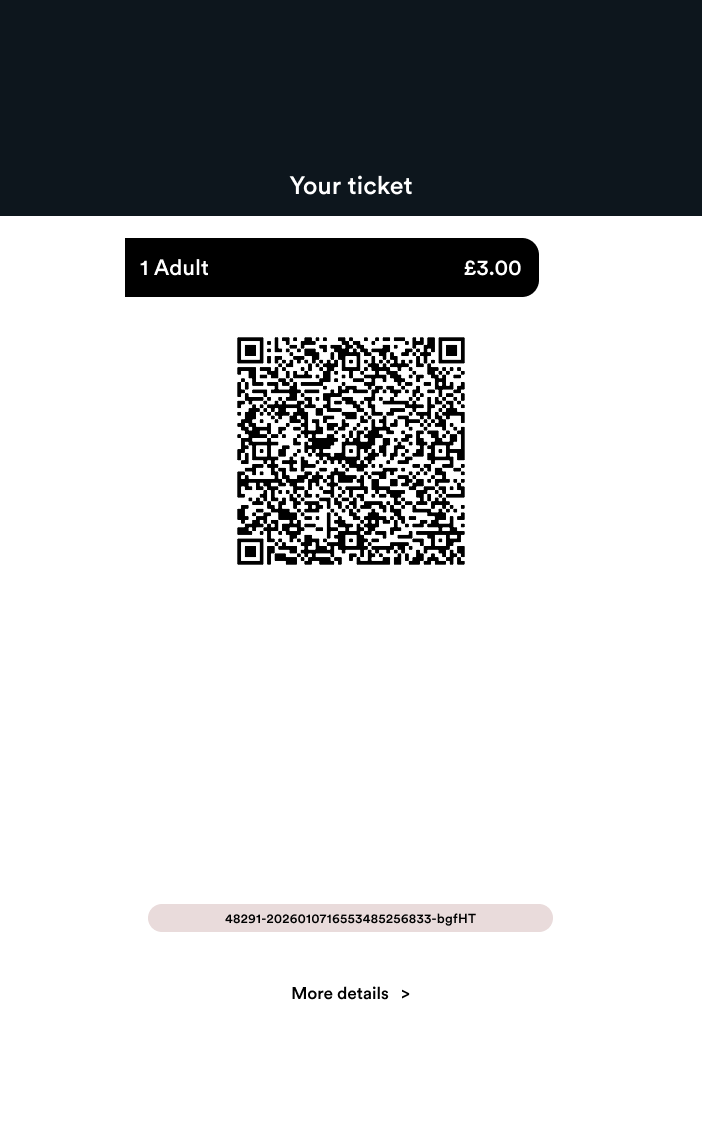
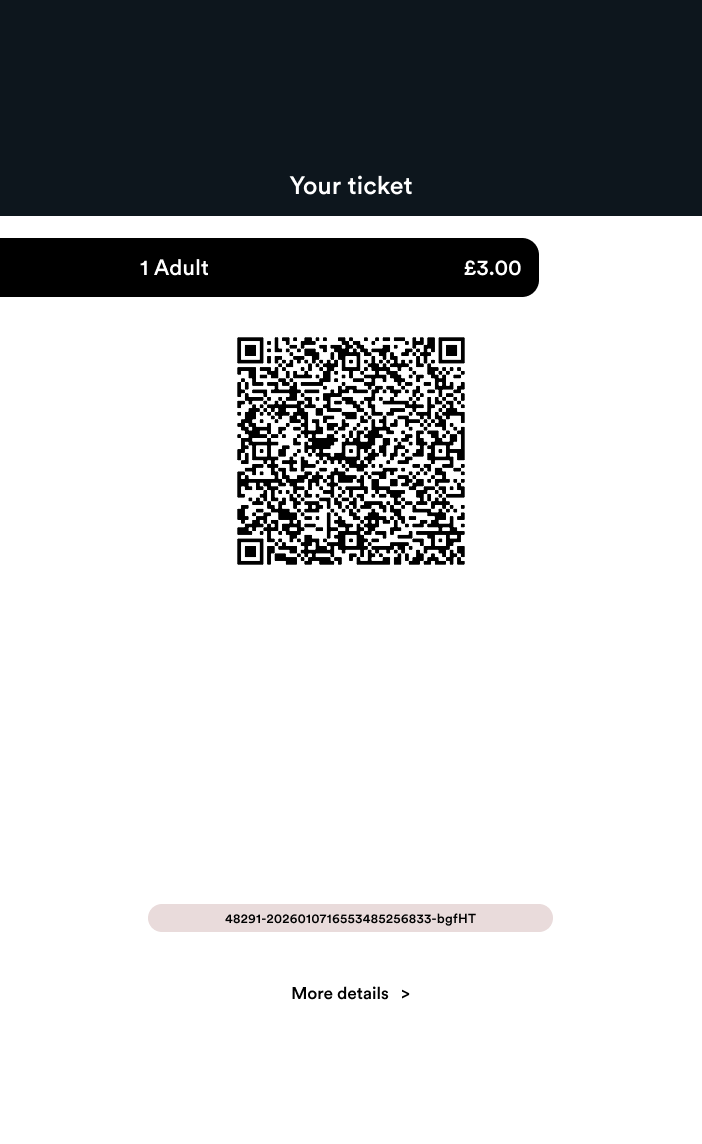
Updated template, added expected time, and significantly reduced generation time

Changed region(s): [[0.0, 0.1836, 0.1795, 0.2753]]

diff --git a/index.js b/index.js
@@ -28,11 +28,13 @@ if (fs.existsSync(fontPath)) {
 }
 
 // ---------------------------
-// VIDEO GENERATION FUNCTION
+// VIDEO GENERATION FUNCTION (OPTIMIZED)
 // ---------------------------
-function generateVideo(routeText, videoId, callback) {
-  const workingWidth = 452;
+function generateVideo(routeText, videoId, expectedTime, callback) {
+  const originalWidth = 452;
+  const workingWidth = 702;
   const workingHeight = 836;
+  const boxExtension = 125;
   
   const workingCanvas = createCanvas(workingWidth, workingHeight);
   const workingCtx = workingCanvas.getContext('2d');
@@ -60,13 +62,15 @@ function generateVideo(routeText, videoId, callback) {
   const generationStartTime = new Date();
 
   const circles = [];
-  const numCircles = 15;
+  const numCircles = 10; // Reduced from 15 for better performance
   const baseBoxY = 496;
   const boxHeight = 83;
+  const circleAreaWidth = 452;
+  const circleAreaStart = (workingWidth - circleAreaWidth) / 2;
 
   for (let i = 0; i < numCircles; i++) {
     circles.push({
-      x: Math.random() * workingWidth,
+      x: circleAreaStart + Math.random() * circleAreaWidth,
       y: baseBoxY + Math.random() * boxHeight,
       radius: 10 + Math.random() * 30,
       vx: (Math.random() - 0.5) * 3,
@@ -100,11 +104,6 @@ function generateVideo(routeText, videoId, callback) {
     });
   }
 
-  const framesDir = path.join(__dirname, 'frames', videoId);
-  if (!fs.existsSync(framesDir)) {
-    fs.mkdirSync(framesDir, { recursive: true });
-  }
-
   loadImage(path.join(__dirname, 'template.png')).then(templateImage => {
     const templateWidth = templateImage.width;
     const templateHeight = templateImage.height;
@@ -112,6 +111,7 @@ function generateVideo(routeText, videoId, callback) {
     const outputCanvas = createCanvas(templateWidth, templateHeight);
     const outputCtx = outputCanvas.getContext('2d');
     
+    // Pre-render static elements to cache canvas
     const cachedWorkingCanvas = createCanvas(workingWidth, workingHeight);
     const cachedWorkingCtx = cachedWorkingCanvas.getContext('2d');
     
@@ -119,16 +119,48 @@ function generateVideo(routeText, videoId, callback) {
     cachedWorkingCtx.textAlign = 'center';
     cachedWorkingCtx.textBaseline = 'middle';
     cachedWorkingCtx.fillStyle = '#000';
-    const titleCenterX = workingWidth / 2;
+    const titleCenterX = boxExtension + originalWidth / 2;
     const titleCenterY = 376 + 66 / 2;
-    const titleMaxWidth = workingWidth - 122;
+    const titleMaxWidth = originalWidth - 122;
     wrapText(cachedWorkingCtx, routeText, titleCenterX, titleCenterY, titleMaxWidth, 36);
     
     cachedWorkingCtx.font = '18px "Circular"';
     const now = new Date();
     const months = ['Jan','Feb','Mar','Apr','May','Jun','Jul','Aug','Sept','Oct','Nov','Dec'];
     const validText = `Valid from: ${String(now.getHours()).padStart(2,'0')}:${String(now.getMinutes()).padStart(2,'0')}, ${String(now.getDate()).padStart(2,'0')} ${months[now.getMonth()]} ${now.getFullYear()}`;
-    cachedWorkingCtx.fillText(validText, workingWidth / 2, 448 + 33 / 2);
+    cachedWorkingCtx.fillText(validText, boxExtension + originalWidth / 2, 448 + 33 / 2);
+
+    // Setup FFmpeg to receive raw video frames via stdin
+    const videosDir = path.join(__dirname, 'videos');
+    if (!fs.existsSync(videosDir)) {
+      fs.mkdirSync(videosDir);
+    }
+    const outputPath = path.join(videosDir, `${videoId}.mp4`);
+
+    const args = [
+      '-y',
+      '-f', 'rawvideo',
+      '-vcodec', 'rawvideo',
+      '-pix_fmt', 'rgba',
+      '-s', `${templateWidth}x${templateHeight}`,
+      '-framerate', String(fps),
+      '-i', '-', // Read from stdin
+      '-c:v', 'libx264',
+      '-pix_fmt', 'yuv420p',
+      '-preset', 'ultrafast',
+      outputPath
+    ];
+
+    const ffmpegProcess = spawn(ffmpegPath, args);
+    
+    let errorOutput = '';
+    ffmpegProcess.stderr.on('data', (data) => {
+      errorOutput += data.toString();
+    });
+
+    // Generate and stream frames directly to FFmpeg
+    let frameCount = 0;
+    const startTime = Date.now();
 
     for (let i = 0; i < totalFrames; i++) {
       workingCtx.clearRect(0, 0, workingWidth, workingHeight);
@@ -142,7 +174,7 @@ function generateVideo(routeText, videoId, callback) {
       const estimatedTime = new Date(generationStartTime.getTime() + (currentSecond * 1000));
       const estimatedHours = String(estimatedTime.getHours()).padStart(2, '0');
       const estimatedMinutes = String(estimatedTime.getMinutes()).padStart(2, '0');
-      const estimatedTimeString = `${estimatedHours}:${estimatedMinutes}`;
+      const estimatedTimeString = expectedTime || `${estimatedHours}:${estimatedMinutes}`;
 
       const t = currentSecond;
       const cycleDuration = 1 / animationSpeed;
@@ -161,6 +193,12 @@ function generateVideo(routeText, videoId, callback) {
 
       const avgTopY = baseBoxY + (tlPull + trPull) / 2;
 
+      // Draw grey box with shadow
+      workingCtx.shadowColor = 'rgba(0, 0, 0, 0.15)';
+      workingCtx.shadowBlur = 10;
+      workingCtx.shadowOffsetX = 0;
+      workingCtx.shadowOffsetY = 4;
+
       workingCtx.fillStyle = '#D9D9D9';
       workingCtx.beginPath();
       workingCtx.moveTo(0, baseBoxY + tlPull);
@@ -170,13 +208,19 @@ function generateVideo(routeText, videoId, callback) {
       workingCtx.closePath();
       workingCtx.fill();
 
+      workingCtx.shadowColor = 'transparent';
+      workingCtx.shadowBlur = 0;
+      workingCtx.shadowOffsetX = 0;
+      workingCtx.shadowOffsetY = 0;
+
+      // Clip and draw circles
       workingCtx.save();
       
       workingCtx.beginPath();
-      workingCtx.moveTo(0, baseBoxY + tlPull);
-      workingCtx.lineTo(workingWidth, baseBoxY + trPull);
-      workingCtx.lineTo(workingWidth, baseBoxY + boxHeight + trPull);
-      workingCtx.lineTo(0, baseBoxY + boxHeight + tlPull);
+      workingCtx.moveTo(circleAreaStart, baseBoxY + tlPull);
+      workingCtx.lineTo(circleAreaStart + circleAreaWidth, baseBoxY + trPull);
+      workingCtx.lineTo(circleAreaStart + circleAreaWidth, baseBoxY + boxHeight + trPull);
+      workingCtx.lineTo(circleAreaStart, baseBoxY + boxHeight + tlPull);
       workingCtx.closePath();
       workingCtx.clip();
 
@@ -184,8 +228,8 @@ function generateVideo(routeText, videoId, callback) {
         circle.x += circle.vx;
         circle.y += circle.vy;
 
-        if (circle.x < -circle.radius) circle.x = workingWidth + circle.radius;
-        if (circle.x > workingWidth + circle.radius) circle.x = -circle.radius;
+        if (circle.x < circleAreaStart - circle.radius) circle.x = circleAreaStart + circleAreaWidth + circle.radius;
+        if (circle.x > circleAreaStart + circleAreaWidth + circle.radius) circle.x = circleAreaStart - circle.radius;
 
         if (circle.y < baseBoxY - circle.radius) circle.y = baseBoxY + boxHeight + circle.radius;
         if (circle.y > baseBoxY + boxHeight + circle.radius) circle.y = baseBoxY - circle.radius;
@@ -200,6 +244,7 @@ function generateVideo(routeText, videoId, callback) {
 
       workingCtx.restore();
 
+      // Text switching logic
       const switchCycle = 2;
       const cycleTime = currentSecond % (switchCycle * 2);
       const fadeDuration = 0.3;
@@ -207,18 +252,27 @@ function generateVideo(routeText, videoId, callback) {
       let textToShow;
       let textOpacity = 1;
       
-      if (cycleTime < switchCycle) {
-        textToShow = selectedWord;
-        if (cycleTime > switchCycle - fadeDuration) {
-          textOpacity = (switchCycle - cycleTime) / fadeDuration;
+      if (expectedTime) {
+        textToShow = estimatedTimeString;
+        if (cycleTime < fadeDuration) {
+          textOpacity = cycleTime / fadeDuration;
+        } else if (cycleTime > (switchCycle * 2) - fadeDuration) {
+          textOpacity = ((switchCycle * 2) - cycleTime) / fadeDuration;
         }
       } else {
-        textToShow = estimatedTimeString;
-        if (cycleTime < switchCycle + fadeDuration) {
-          textOpacity = (cycleTime - switchCycle) / fadeDuration;
-        }
-        if (cycleTime > (switchCycle * 2) - fadeDuration) {
-          textOpacity = ((switchCycle * 2) - cycleTime) / fadeDuration;
+        if (cycleTime < switchCycle) {
+          textToShow = selectedWord;
+          if (cycleTime > switchCycle - fadeDuration) {
+            textOpacity = (switchCycle - cycleTime) / fadeDuration;
+          }
+        } else {
+          textToShow = estimatedTimeString;
+          if (cycleTime < switchCycle + fadeDuration) {
+            textOpacity = (cycleTime - switchCycle) / fadeDuration;
+          }
+          if (cycleTime > (switchCycle * 2) - fadeDuration) {
+            textOpacity = ((switchCycle * 2) - cycleTime) / fadeDuration;
+          }
         }
       }
 
@@ -227,55 +281,54 @@ function generateVideo(routeText, videoId, callback) {
       workingCtx.textBaseline = 'middle';
       workingCtx.fillStyle = `rgba(0, 0, 0, ${textOpacity})`;
       
-      const wordCenterX = workingWidth / 2;
+      const wordCenterX = boxExtension + originalWidth / 2;
       const textRelativeY = 63 / 2;
       const wordCenterY = avgTopY + 10 + textRelativeY;
       
-      const wordMaxWidth = workingWidth - 122;
+      const wordMaxWidth = originalWidth - 122;
       wrapText(workingCtx, textToShow, wordCenterX, wordCenterY, wordMaxWidth, 48);
 
       workingCtx.font = '18px "Circular"';
       workingCtx.fillStyle = '#000';
       const countdownText = `Ticket expires in: 0h: ${minutes}m: ${seconds}s`;
-      workingCtx.fillText(countdownText, 83 + 285 / 2, 608 + 33 / 2);
+      workingCtx.fillText(countdownText, boxExtension + 83 + 285 / 2, 608 + 33 / 2);
 
+      // Composite final frame
       outputCtx.clearRect(0, 0, templateWidth, templateHeight);
       outputCtx.drawImage(templateImage, 0, 0);
-      outputCtx.drawImage(workingCanvas, 125, 224);
+      outputCtx.drawImage(workingCanvas, 0, 224);
 
-      const frameNumber = String(i).padStart(6, '0');
-      fs.writeFileSync(path.join(framesDir, `frame_${frameNumber}.png`), outputCanvas.toBuffer('image/png'));
+      // Stream raw buffer directly to FFmpeg (no PNG encoding!)
+      const buffer = outputCanvas.toBuffer('raw');
+      ffmpegProcess.stdin.write(buffer);
+
+      frameCount++;
+      if (frameCount % 150 === 0) {
+        const elapsed = ((Date.now() - startTime) / 1000).toFixed(1);
+        const fps_actual = (frameCount / elapsed).toFixed(1);
+        console.log(`  Progress: ${frameCount}/${totalFrames} frames (${fps_actual} fps)`);
+      }
     }
 
-    const inputPattern = path.join(framesDir, 'frame_%06d.png');
-    const videosDir = path.join(__dirname, 'videos');
-    if (!fs.existsSync(videosDir)) {
-      fs.mkdirSync(videosDir);
-    }
-    const outputPath = path.join(videosDir, `${videoId}.mp4`);
-
-    const args = [
-      '-y',
-      '-framerate', String(fps),
-      '-start_number', '0',
-      '-i', inputPattern,
-      '-c:v', 'libx264',
-      '-pix_fmt', 'yuv420p',
-      '-preset', 'ultrafast',
-      outputPath
-    ];
-
-    const ffmpegProcess = spawn(ffmpegPath, args);
+    // Close stdin to signal completion
+    ffmpegProcess.stdin.end();
 
     ffmpegProcess.on('close', code => {
-      fs.rmSync(framesDir, { recursive: true });
+      const totalTime = ((Date.now() - startTime) / 1000).toFixed(2);
       
       if (code === 0) {
+        console.log(`  ✓ Completed in ${totalTime}s`);
         callback(null, videoId);
       } else {
-        callback(new Error('FFmpeg failed'));
+        console.error('FFmpeg error:', errorOutput);
+        callback(new Error('FFmpeg failed with code ' + code));
       }
     });
+
+    ffmpegProcess.on('error', (err) => {
+      callback(err);
+    });
+
   }).catch(err => {
     callback(err);
   });
@@ -340,6 +393,7 @@ app.get('/generate', (req, res) => {
       <form id="generateForm">
         <input type="text" id="from" name="from" placeholder="From" required>
         <input type="text" id="to" name="to" placeholder="To" required>
+        <input type="time" id="expectedTime" name="expectedTime" placeholder="Expected Time (optional)">
         <button type="submit">Generate</button>
       </form>
       <div id="result"></div>
@@ -350,6 +404,7 @@ app.get('/generate', (req, res) => {
           
           const from = document.getElementById('from').value;
           const to = document.getElementById('to').value;
+          const expectedTime = document.getElementById('expectedTime').value;
           const button = e.target.querySelector('button');
           const result = document.getElementById('result');
           
@@ -361,7 +416,7 @@ app.get('/generate', (req, res) => {
             const response = await fetch('/generate', {
               method: 'POST',
               headers: { 'Content-Type': 'application/json' },
-              body: JSON.stringify({ from, to })
+              body: JSON.stringify({ from, to, expectedTime })
             });
             
             const data = await response.json();
@@ -391,7 +446,7 @@ app.get('/generate', (req, res) => {
 });
 
 app.post('/generate', (req, res) => {
-  const { from, to } = req.body;
+  const { from, to, expectedTime } = req.body;
   
   if (!from || !to) {
     return res.json({ success: false, error: 'Missing from or to' });
@@ -405,7 +460,7 @@ app.post('/generate', (req, res) => {
   
   console.log(`[${new Date().toISOString()}] Generating: ${routeText}`);
   
-  generateVideo(routeText, videoId, (err) => {
+  generateVideo(routeText, videoId, expectedTime || null, (err) => {
     if (err) {
       console.error('Error:', err);
       return res.json({ success: false, error: err.message });
